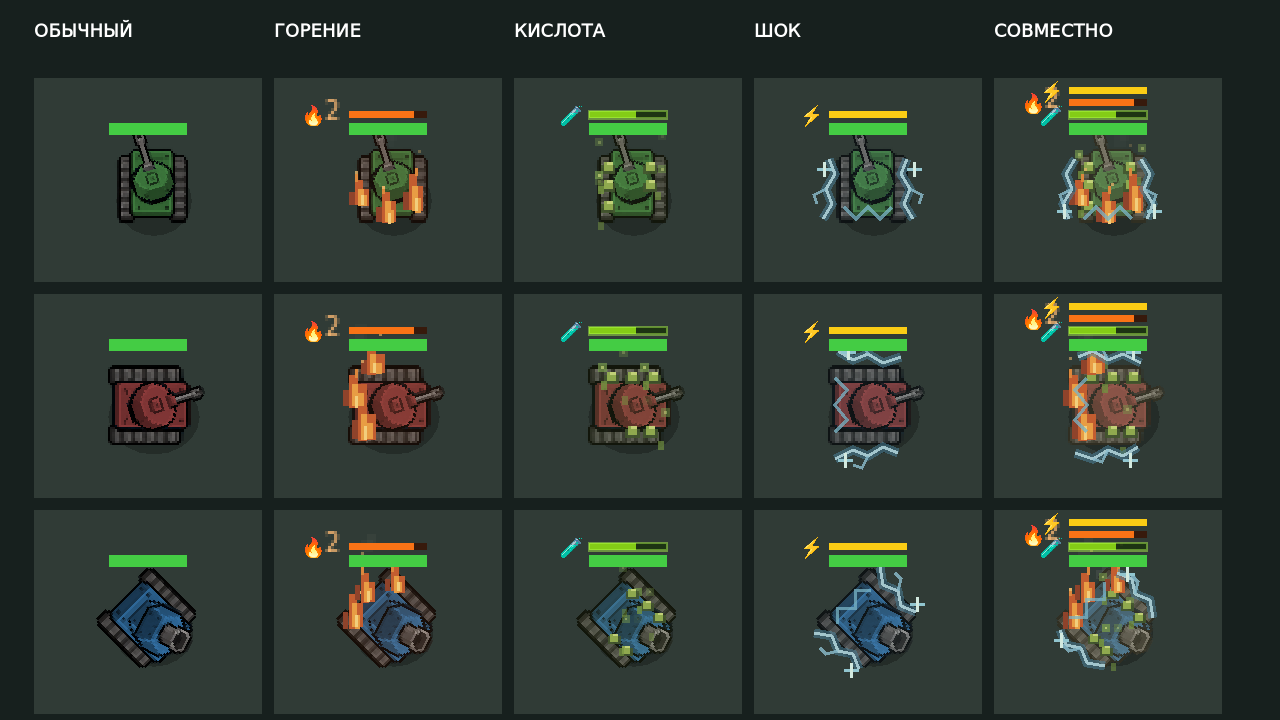
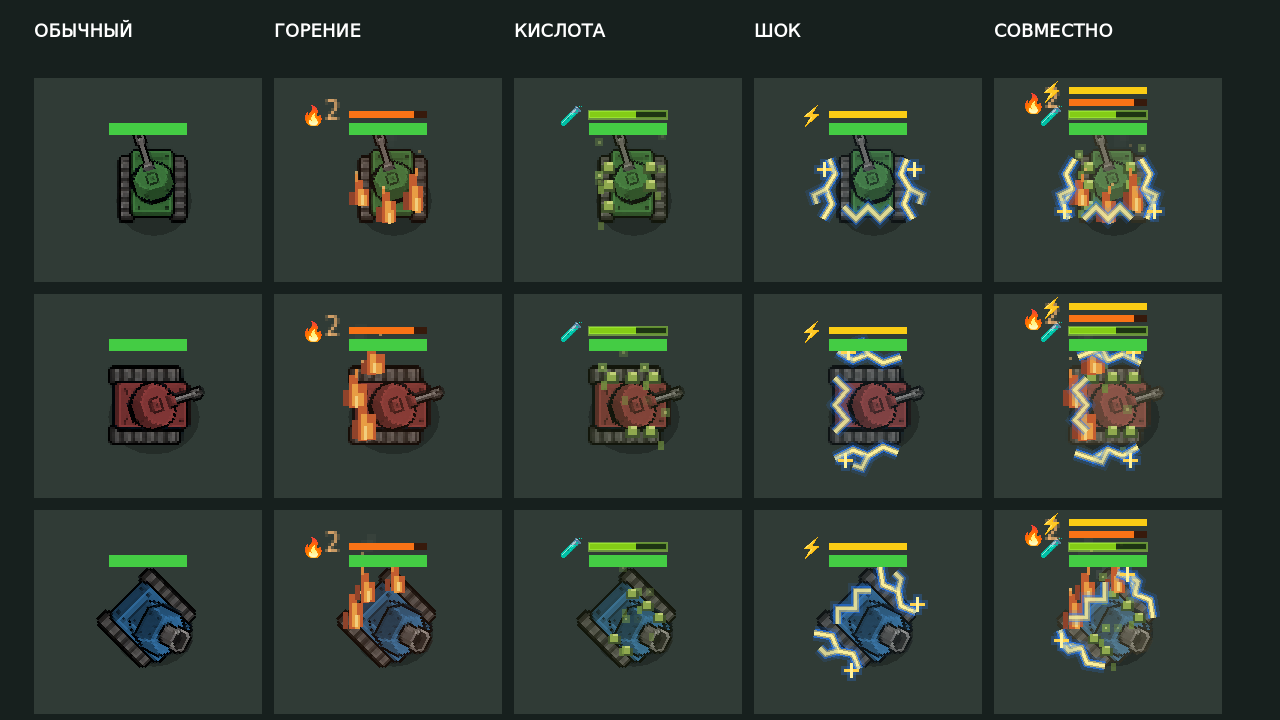
Unify blue-yellow electric glow and add visible chain arcs; version 0.9.57

diff --git a/docs/weather-effects.md b/docs/weather-effects.md
@@ -9,6 +9,10 @@ nearest filtering and a tint from the current location. It uses the simulation
 tick, so it pauses with gameplay and does not require real-time shader clocks.
 Day/night lighting and lamps remain active.
 
+Storm lightning and tank shock share `ElectricGlow`: a stepped blue outer halo,
+a yellow inner glow and a pale yellow core. Branches and impact sparks use the
+same palette. Reduced flashes dim the halos while preserving the combat cue.
+
 `godot/scripts/fx/weather_visuals.gd` owns the reusable drawing helpers.
 The fog texture is generated once and shared between player views. Decoration
 uses hashes instead of consuming simulation randomness. The existing weather
@@ -31,3 +35,18 @@ checks vision, traction, hearing, lightning damage and storm tree destruction.
 Battlefield examples: [fog](../screenshots/weather/fog.png),
 [rain](../screenshots/weather/rain.png), [snow](../screenshots/weather/snow.png),
 [night storm](../screenshots/weather/storm_night.png).
+
+## Цепные разряды (0.9.57)
+
+Электрическая дуга `World.shock_arc` и распространение молнии
+`World._chain_lightning` создают короткие связи между точками попадания.
+Они рисуются через `ElectricGlow`: синее внешнее свечение, жёлтая сердцевина,
+ломаная линия на пиксельной сетке и боковая ветвь. Связь существует 12 тиков;
+геометрия меняется каждые 3 тика и остаётся неподвижной при паузе.
+При низком качестве отключается боковая ветвь, основной разряд сохраняется.
+Уменьшение вспышек ослабляет ореол, сохраняя читаемую сердцевину.
+
+Отрисовка не меняет выбор целей, урон или генератор случайных чисел.
+Старые частицы остаются дополнительными искрами. В мире хранится не больше
+128 связей; они удаляются при обычном/косметическом обновлении и очистке мира.
+Проверка: `tests/electric_chain_check.tscn` (требуется графический дисплей).

diff --git a/docs/tank-status-effects.md b/docs/tank-status-effects.md
@@ -8,8 +8,8 @@ remain readable through low-opacity armor tints and an open center.
   small smoke clusters behind the hull. More burn stacks add flame coverage.
 - Acid: olive/lime deposits, downward drips and rising square bubbles. Coverage
   increases with acid stacks.
-- Shock: pale blue angular arcs along the tracks and rear armor, small forks and
-  sparks. Reduced flashes attenuate the outer glow.
+- Shock: blue glowing angular arcs with yellow centers along the tracks and rear
+  armor, small forks and sparks. Reduced flashes attenuate the outer glow.
 
 `TankStatusFx` is shared by sprite and geometric tank rendering. Anchors follow
 the chassis rotation; flames rise toward the top of the screen. Effects scale
